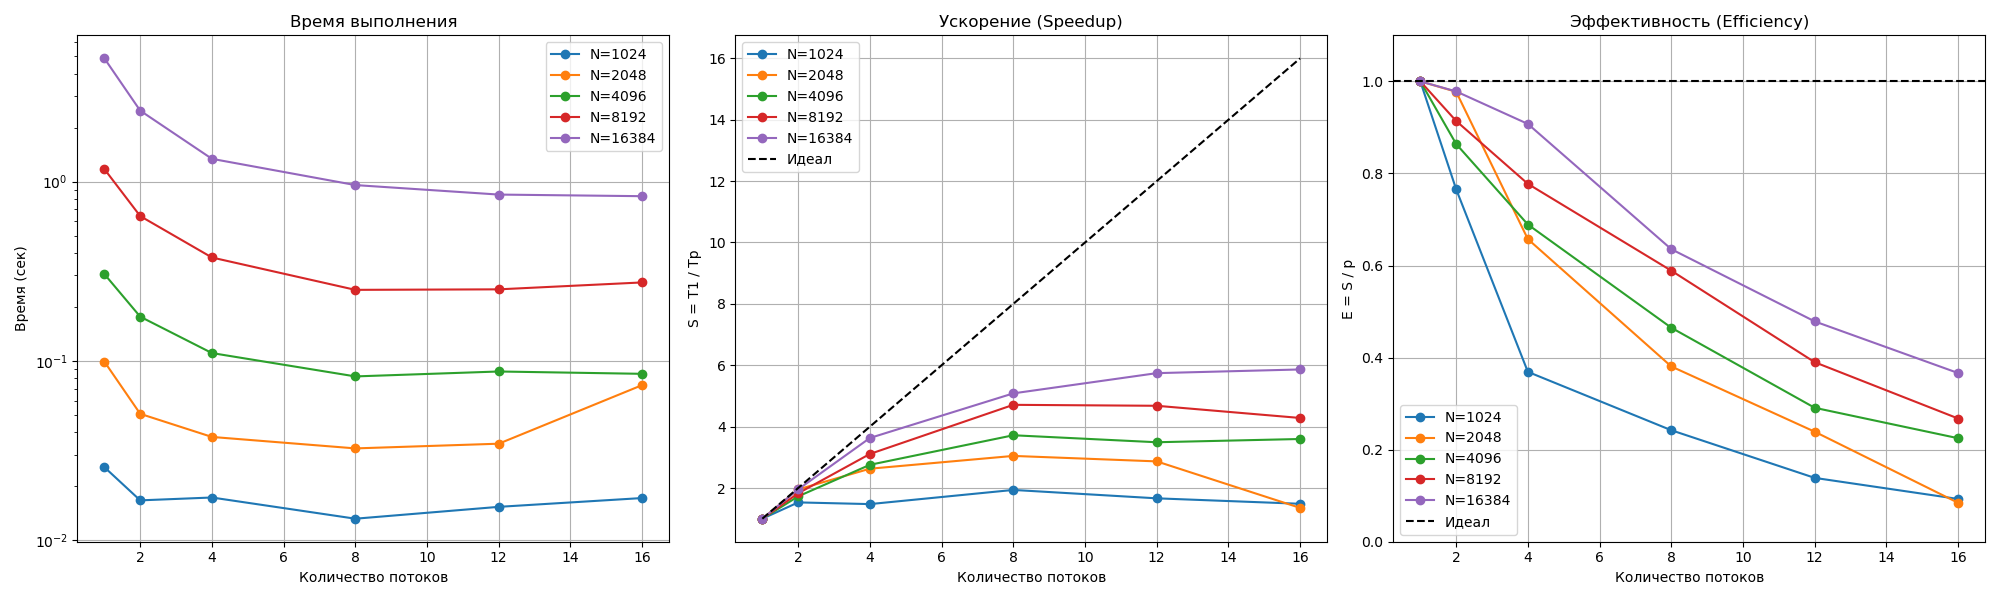
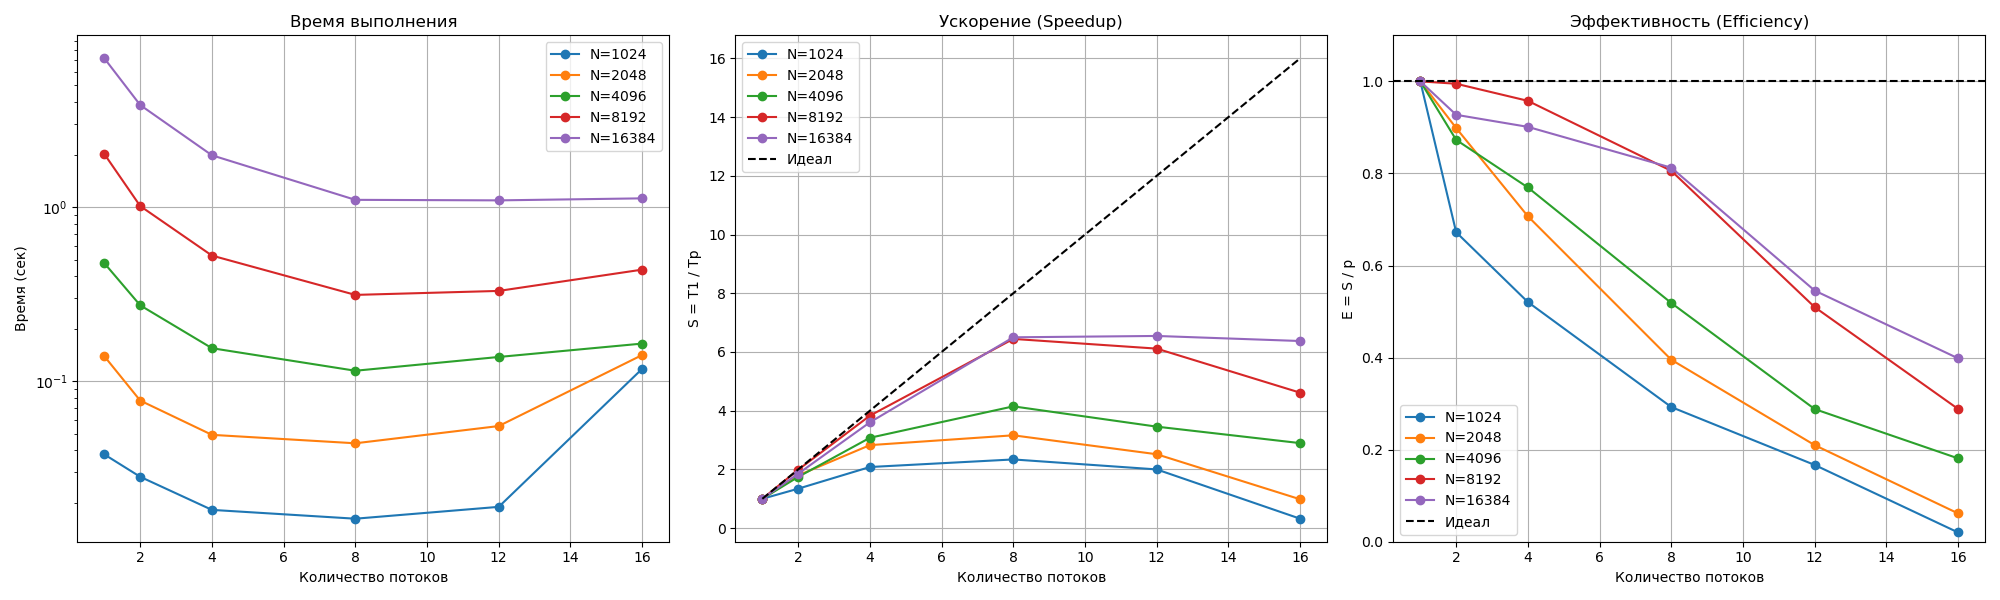
Результаты, мелкие правки

diff --git a/Mandelbrot/charts_gen.py b/Mandelbrot/charts_gen.py
@@ -3,52 +3,52 @@ import matplotlib.pyplot as plt
 import io
 
 
-df = pd.read_csv("benchmark_results.csv")
+for method in ["Monte-Carlo", "Grid"]:
+    df = pd.read_csv(f"{method}/benchmark_results.csv")
+
+    points_cases = df['Points'].unique()
 
 
-points_cases = df['Points'].unique()
+    fig, (ax1, ax2, ax3) = plt.subplots(1, 3, figsize=(20, 6))
 
+    for p in points_cases:
+        subset = df[df['Points'] == p].sort_values('Threads')
+        threads = subset['Threads']
+        times = subset['Time_Seconds']
+        
 
-fig, (ax1, ax2, ax3) = plt.subplots(1, 3, figsize=(20, 6))
+        ax1.plot(threads, times, marker='o', label=f'N={p}')
+        
+        t1 = times.iloc[0]
+        speedup = t1 / times
+        
+        ax2.plot(threads, speedup, marker='o', label=f'N={p}')
+        
+        efficiency = speedup / threads
+        
+        ax3.plot(threads, efficiency, marker='o', label=f'N={p}')
 
-for p in points_cases:
-    subset = df[df['Points'] == p].sort_values('Threads')
-    threads = subset['Threads']
-    times = subset['Time_Seconds']
-    
+    ax1.set_title('Время выполнения')
+    ax1.set_xlabel('Количество потоков')
+    ax1.set_ylabel('Время (сек)')
+    ax1.set_yscale('log')
+    ax1.grid(True)
+    ax1.legend()
 
-    ax1.plot(threads, times, marker='o', label=f'N={p}')
-    
-    t1 = times.iloc[0]
-    speedup = t1 / times
-    
-    ax2.plot(threads, speedup, marker='o', label=f'N={p}')
-    
-    efficiency = speedup / threads
-    
-    ax3.plot(threads, efficiency, marker='o', label=f'N={p}')
+    ax2.plot(threads, threads, 'k--', label='Идеал')
+    ax2.set_title('Ускорение (Speedup)')
+    ax2.set_xlabel('Количество потоков')
+    ax2.set_ylabel('S = T1 / Tp')
+    ax2.grid(True)
+    ax2.legend()
 
-ax1.set_title('Время выполнения')
-ax1.set_xlabel('Количество потоков')
-ax1.set_ylabel('Время (сек)')
-ax1.set_yscale('log')
-ax1.grid(True)
-ax1.legend()
+    ax3.axhline(y=1, color='k', linestyle='--', label='Идеал')
+    ax3.set_title('Эффективность (Efficiency)')
+    ax3.set_xlabel('Количество потоков')
+    ax3.set_ylabel('E = S / p')
+    ax3.set_ylim(0, 1.1)
+    ax3.grid(True)
+    ax3.legend()
 
-ax2.plot(threads, threads, 'k--', label='Идеал')
-ax2.set_title('Ускорение (Speedup)')
-ax2.set_xlabel('Количество потоков')
-ax2.set_ylabel('S = T1 / Tp')
-ax2.grid(True)
-ax2.legend()
-
-ax3.axhline(y=1, color='k', linestyle='--', label='Идеал')
-ax3.set_title('Эффективность (Efficiency)')
-ax3.set_xlabel('Количество потоков')
-ax3.set_ylabel('E = S / p')
-ax3.set_ylim(0, 1.1)
-ax3.grid(True)
-ax3.legend()
-
-plt.tight_layout()
-plt.savefig('benchmarks.png')
+    plt.tight_layout()
+    plt.savefig(f"{method}_performance_plots.png")
